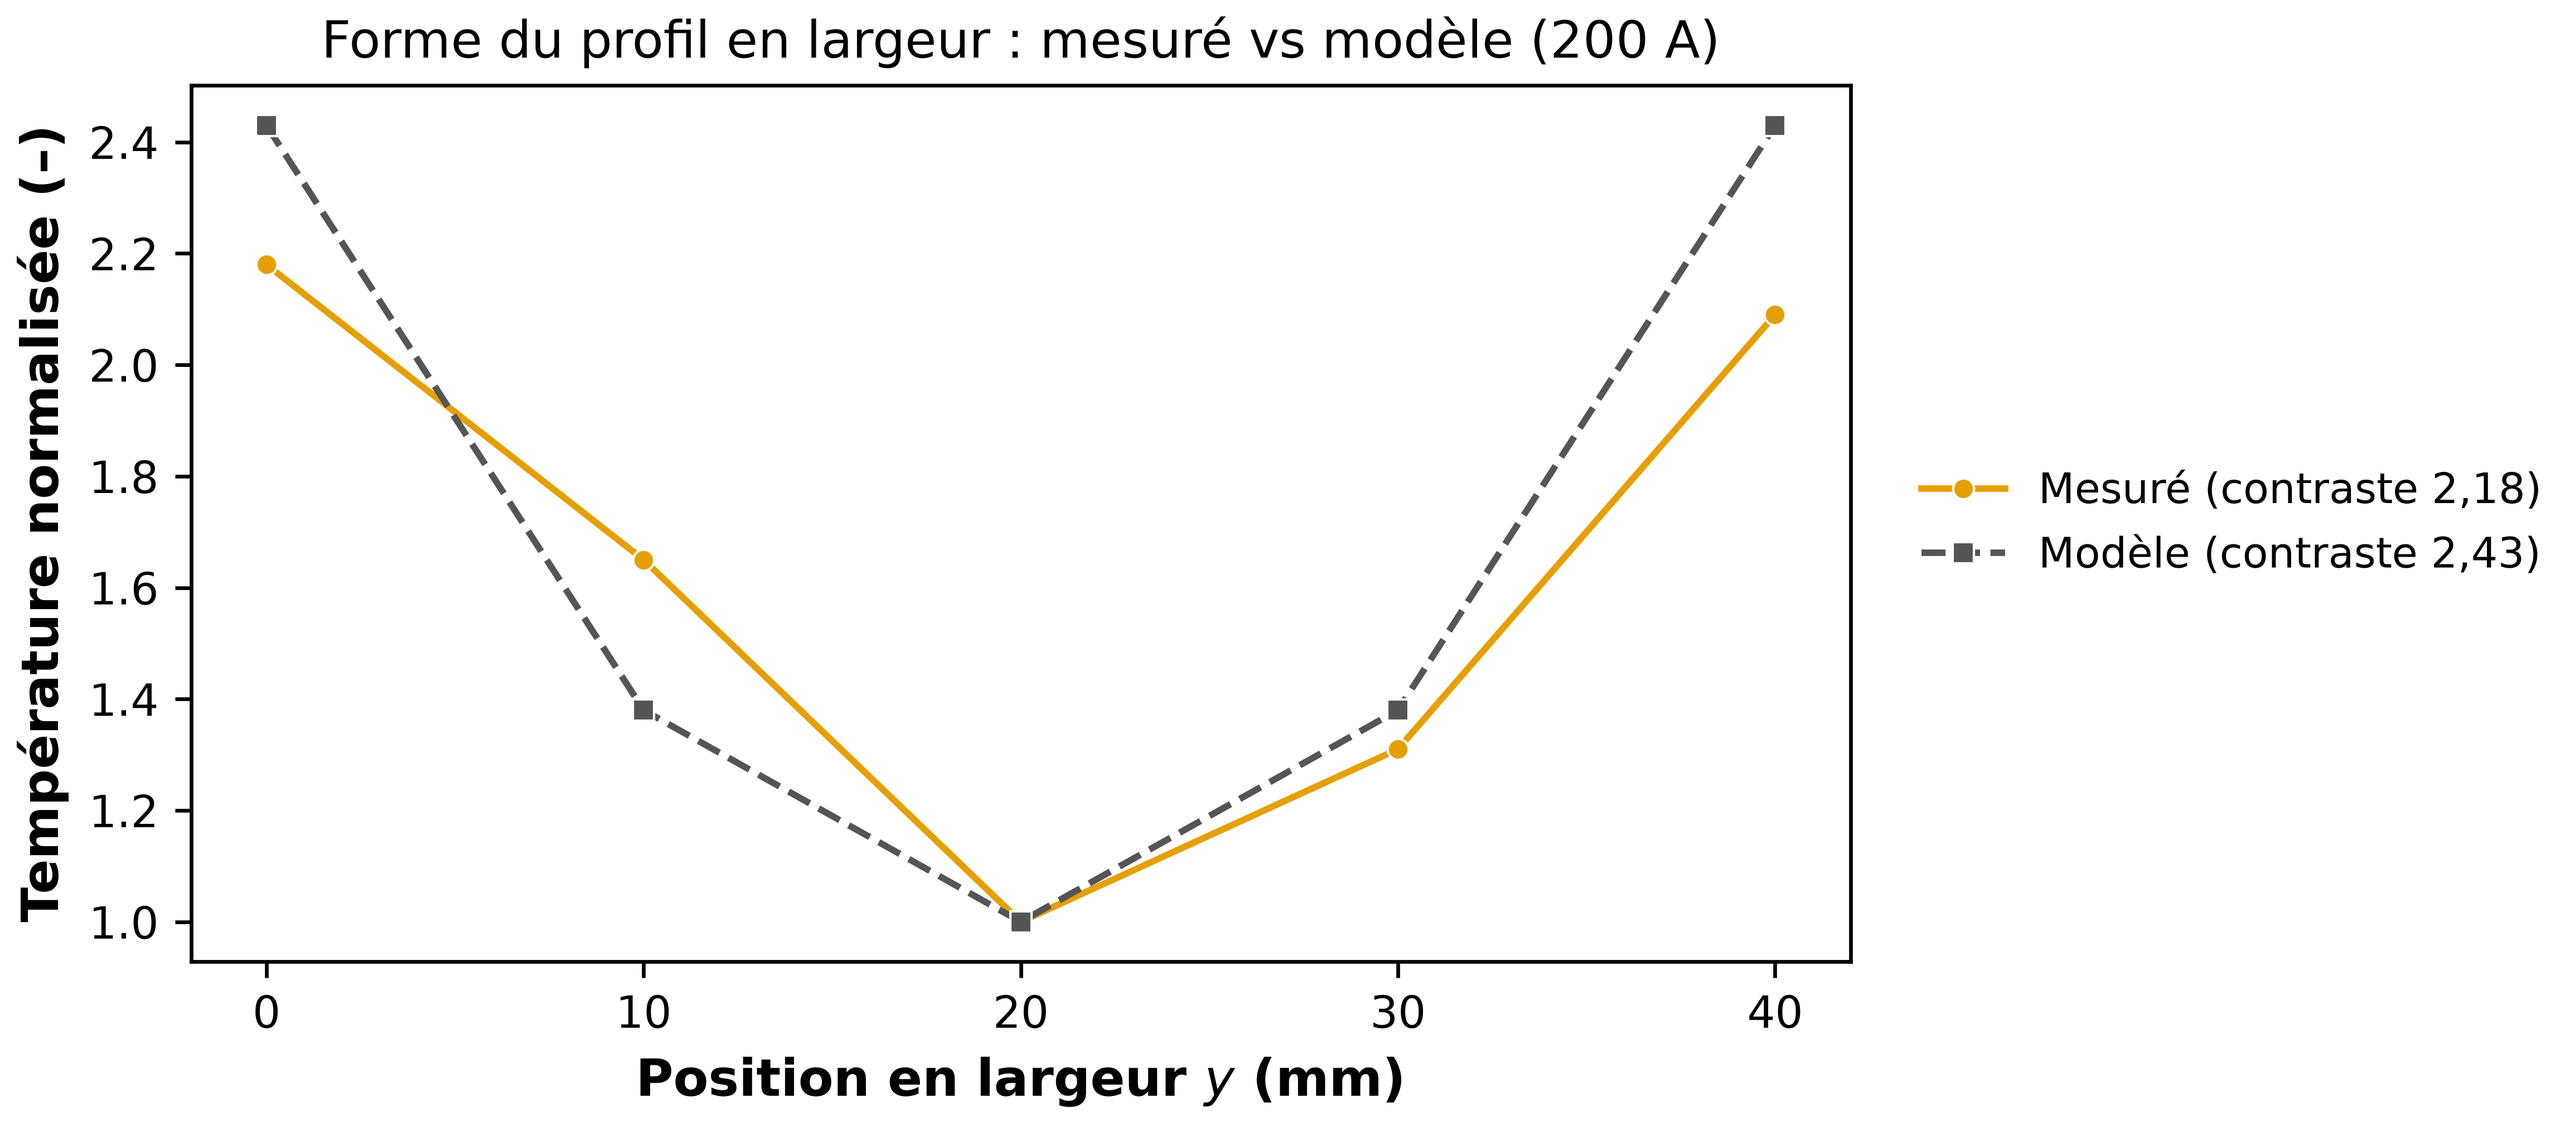
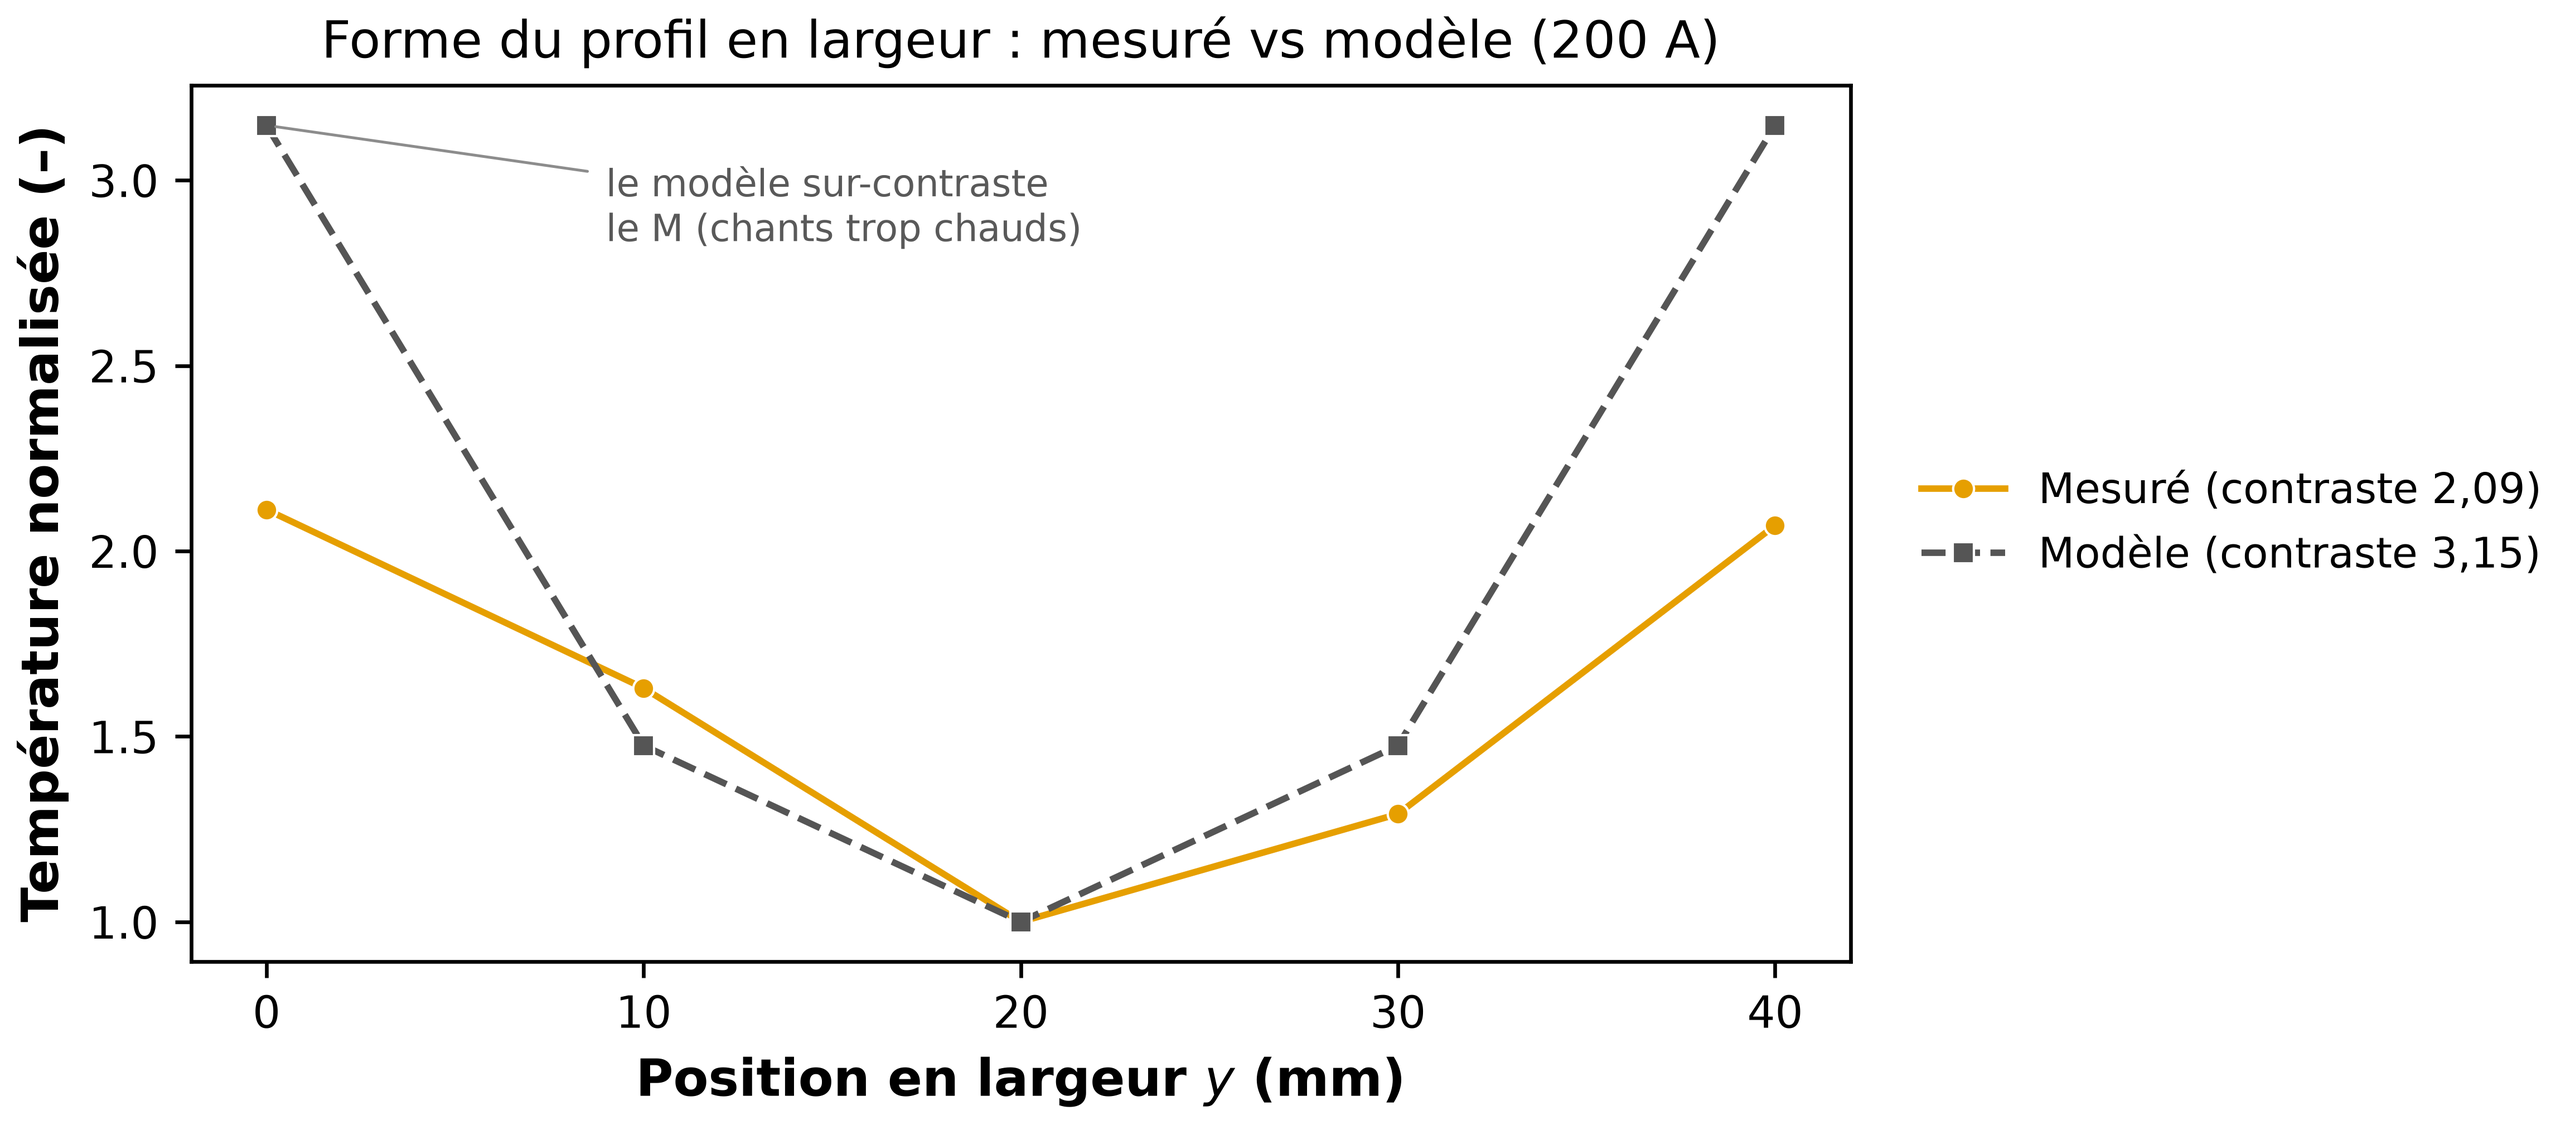
fig2 corrigée : contraste M calculé en direct (fin du hardcode périmé)
fig2 (« mesuré vs modèle », slide 9) affichait un contraste modèle 2,43 ≈ mesuré 2,18
CODÉ EN DUR, d'avant les corrections twill/hauteur. Recalculée en direct :
- mesuré = pics exp7_200A ; modèle = simulation 2D au θ* de référence.
- vrai contraste : modèle ~3,15 vs mesuré ~2,09 → le modèle SUR-CONTRASTE le M de ~50 %.
Annotation + labels dynamiques. Deck : image15 ré-embarquée + bullet slide 9 corrigé
(« forme correcte mais sur-contraste »), sauvegarde unique rafraîchie.

diff --git a/scripts/gen_figures_elsevier.py b/scripts/gen_figures_elsevier.py
@@ -195,17 +195,41 @@ def fig1():
 # FIG 2 — forme normalisée
 # ========================================================================
 def fig2():
+    """Forme du profil en largeur (normalisée au centre) — mesuré vs modèle, 200 A.
+
+    Valeurs CALCULÉES en direct (fin du hardcode périmé) : mesuré = pics exp7_200A ;
+    modèle = simulation 2D au θ* de référence (config). Le modèle SUR-CONTRASTE le M
+    (~3,15 vs ~2,09 mesuré) — la forme est bonne, l'amplitude du contraste non.
+    """
     fig, ax = plt.subplots(figsize=(6.4, 3.4))
-    mesure = np.array([2.18, 1.65, 1.00, 1.31, 2.09])
-    modele = np.array([2.43, 1.38, 1.00, 1.38, 2.43])
+    # --- mesuré : pics ΔT par TC en largeur (exp7 200 A), normalisés au centre (TC3) ---
+    dfc, amb, _ = clean(load_txt(DATA7 / "200A" / "200A_v6.txt"))
+    mes = np.array([dfc[f"TC{i}"].max() for i in range(1, 6)]) - amb
+    mesure = mes / mes[2]
+    # --- modèle : simulation 2D au θ* de référence, pics ΔT aux 5 positions y ---
+    from jumeau.materiaux import Config
+    from jumeau.procede import Essai
+    cfg = Config.charger(R / "config")
+    e = Essai(cfg, R / "config" / "essais" / "exp7_200A.yaml", nx=61, ny=21, nz=15,
+              facteur_couplage=6.0123, decalage_x=0.0, racine=R)
+    sv, sol = e.simuler(modele="2D")
+    mod = np.array([sv.serie_temporelle(sol, 0.060, y, "interface").max()
+                    for y in (0.0, 0.010, 0.020, 0.030, 0.040)])
+    amb_m = float(sv.serie_temporelle(sol, 0.060, 0.020, "interface")[0])
+    modele = (mod - amb_m) / (mod[2] - amb_m)
+    c_mes = (mesure[0] + mesure[4]) / 2
+    c_mod = (modele[0] + modele[4]) / 2
     ax.plot(Y_MM, mesure, "-o", color=C200, markeredgecolor="white", markeredgewidth=0.5,
-            label="Mesuré (contraste 2,18)")
+            label=f"Mesuré (contraste {c_mes:.2f})".replace(".", ","))
     ax.plot(Y_MM, modele, "--s", color=C_MODEL, markeredgecolor="white", markeredgewidth=0.5,
-            label="Modèle (contraste 2,43)")
+            label=f"Modèle (contraste {c_mod:.2f})".replace(".", ","))
     ax.set_xticks(Y_MM)
     ax.set_title("Forme du profil en largeur : mesuré vs modèle (200 A)")
     ax.set_xlabel("Position en largeur $y$ (mm)")
     ax.set_ylabel("Température normalisée (–)")
+    ax.annotate("le modèle sur-contraste\nle M (chants trop chauds)",
+                xy=(0, modele[0]), xytext=(9, modele[0] - 0.1), fontsize=8, color="0.35",
+                ha="left", va="top", arrowprops=dict(arrowstyle="-", color="0.55", lw=0.6))
     legend_right(ax)
     savefig(fig, "fig2_mesure_modele.png")
 
